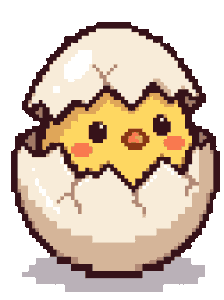
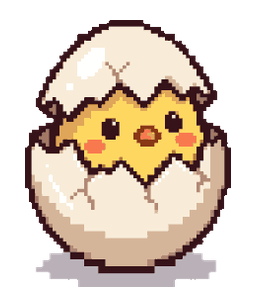
feat(NZ-236): マスコットのレベル表示とビジュアル更新を改善
- マスコットのレベル1〜10のドット絵をリデザイン（実績なし版も保存）
- RouteLoadingOverlay でレベル名表示に統一し、経験値ゲージを削除
- 待機中の画面情報を簡潔にして、ユーザーの待ち時間の体感負荷を軽減
- RouteSuggestionView と RouteConditionView のレベル表示を更新
- 経験値計算ロジックと関連テストを調整

diff --git a/frontend/src/views/RouteSuggestionView.vue b/frontend/src/views/RouteSuggestionView.vue
@@ -4,7 +4,7 @@ import { useRouter } from 'vue-router';
 import BaseButton from '@/components/base/BaseButton.vue';
 import BaseToast from '@/components/base/BaseToast.vue';
 import DefaultLayout from '@/components/layout/DefaultLayout.vue';
-import MascotExperienceBar from '@/components/feature/mascot/MascotExperienceBar.vue';
+import MascotSpeechBubble from '@/components/feature/mascot/MascotSpeechBubble.vue';
 import RouteInfoCard from '@/components/feature/route/RouteInfoCard.vue';
 import RouteLoadingOverlay from '@/components/feature/route/RouteLoadingOverlay.vue';
 import RouteMapPreview from '@/components/feature/route/RouteMapPreview.vue';
@@ -62,8 +62,16 @@ const showRandomSelectionMessage = () => {
   }
 };
 
-// ホーム画面から作成して遷移してきたときに知らせる
-onMounted(showRandomSelectionMessage);
+onMounted(() => {
+  // ホーム画面から作成して遷移してきたときに知らせる
+  showRandomSelectionMessage();
+
+  // 通常はホームで取得済みだが、この画面へ直接来た場合（リロード等）に備えて
+  // 取得できていなければ起こす。loadExperience は何度呼んでも同じ結果になる
+  if (!mascotStore.isExperienceLoaded) {
+    mascotStore.loadExperience();
+  }
+});
 
 /**
  * @description 提案を確定して案内画面へ進む。
@@ -110,18 +118,7 @@ const handleBackToHome = () => {
   <RouteLoadingOverlay
     v-if="isCreating"
     :mascot-level="mascotStore.mascotLevel"
-  >
-    <template
-      v-if="mascotStore.hasExperience"
-      #experience
-    >
-      <MascotExperienceBar
-        :level-progress="mascotStore.levelProgress"
-        :total-experience-points="mascotStore.totalExperiencePoints"
-        size="large"
-      />
-    </template>
-  </RouteLoadingOverlay>
+  />
 
   <DefaultLayout
     v-else-if="routeStore.currentRoute"
@@ -138,6 +135,22 @@ const handleBackToHome = () => {
       <h2 class="page-title">
         おすすめルート
       </h2>
+
+      <!--
+        提案の案内役。ホームで取得したレベルに応じた姿で出す。
+        この画面は地図と紹介文に高さを譲りたいので size は small にし、
+        経験値バーは出さずレベル名だけ添える（情報を絞る）。
+        ホームを経由せず直接来た場合に取得前の卵が出ないよう isExperienceLoaded で守る。
+      -->
+      <MascotSpeechBubble
+        v-if="mascotStore.isExperienceLoaded"
+        class="suggestion-mascot"
+        message="こんなルートはどう？ 気に入ったら決定してね！"
+        :level="mascotStore.mascotLevel"
+        placement="side"
+        size="small"
+        has-level-label
+      />
 
       <RouteMapPreview
         :geometry="routeStore.currentRoute.geometry"
@@ -191,6 +204,11 @@ const handleBackToHome = () => {
 .suggestion-content {
   display: flex;
   flex-direction: column;
+}
+
+/* 案内役と地図の間を空ける。高さが限られる画面なので最小限にとどめる */
+.suggestion-mascot {
+  margin-bottom: calc(6px + var(--fit) * 8);
 }
 
 /*

diff --git a/frontend/src/views/RouteConditionView.vue b/frontend/src/views/RouteConditionView.vue
@@ -56,13 +56,10 @@ onMounted(() => {
 
 /**
  * マスコットが話す文言。
- * 読み込み中・失敗・入力待ちの3つの状態を、この画面の案内役がそのまま話す。
+ * 読み込み中の案内は出さない（マスコット自体を取得完了まで出さないため）。
+ * 取得が終わった後の「失敗」「入力待ち」の2状態だけを、この画面の案内役が話す。
  */
 const mascotMessage = computed(() => {
-  if (isLoadingOptions.value) {
-    return '地図をひろげているよ。少し待っていてね';
-  }
-
   if (!hasConditionOptions.value) {
     return optionsErrorMessage.value ?? '条件をよみこめなかったみたい。もう一度ためしてね';
   }
@@ -72,7 +69,7 @@ const mascotMessage = computed(() => {
 
 /** 吹き出しの種類。条件を出せないときだけ注意として見せる */
 const mascotMessageVariant = computed(() =>
-  !isLoadingOptions.value && !hasConditionOptions.value ? 'alert' : 'normal'
+  hasConditionOptions.value ? 'normal' : 'alert'
 );
 
 /**
@@ -127,21 +124,11 @@ const handleSignOut = async () => {
 </script>
 
 <template>
+  <!-- ロード画面はレベル名だけ添える（経験値バーは渡さない） -->
   <RouteLoadingOverlay
     v-if="isCreating"
     :mascot-level="mascotStore.mascotLevel"
-  >
-    <template
-      v-if="mascotStore.hasExperience"
-      #experience
-    >
-      <MascotExperienceBar
-        :level-progress="mascotStore.levelProgress"
-        :total-experience-points="mascotStore.totalExperiencePoints"
-        size="large"
-      />
-    </template>
-  </RouteLoadingOverlay>
+  />
 
   <!--
     is-home は、この画面だけの見た目（見出しの扱い・下部の余白）を
@@ -179,14 +166,22 @@ const handleSignOut = async () => {
       />
     </div>
 
-    <!-- 読み込み中・失敗・入力待ちの案内は、この画面の案内役が吹き出しで話す -->
+    <!--
+      失敗・入力待ちの案内は、この画面の案内役が吹き出しで話す。
+      読み込み中（条件マスタの取得中・実績の取得中）は何も出さず、両方が終わってから
+      一度に出す。これにより「読み込み中」の中間表示そのものが消え、取得前のLv.1（卵）が
+      ちらつくこともない。実績は失敗しても isExperienceLoaded が真になり、Lv.1 で進む。
+      has-level-label で `Lv.5 まちの案内人` のようにレベルと名前を添える。
+    -->
     <MascotSpeechBubble
+      v-if="mascotStore.isExperienceLoaded && !isLoadingOptions"
       class="home-mascot"
       :message="mascotMessage"
       :variant="mascotMessageVariant"
       :level="mascotStore.mascotLevel"
       placement="side"
       size="medium"
+      has-level-label
     >
       <!-- 実績を取得できたときだけ経験値バーを出す（失敗時はLv.1でバー無し） -->
       <template

diff --git a/frontend/src/components/feature/route/RouteLoadingOverlay.vue b/frontend/src/components/feature/route/RouteLoadingOverlay.vue
@@ -7,8 +7,10 @@ import { DEFAULT_MASCOT_LEVEL } from '@/constants/mascotLevels';
  * 進行状況の判定は行わず、表示のみを担当する。
  * 待っている間の案内はマスコットが吹き出しで話す。
  *
- * レベルと経験値バーは親から受け取る（この部品は実績を取得しない）。
- * どちらも省略できるため、デザイン確認用の画面からは引数なしで呼べる。
+ * レベルは親から受け取る（この部品は実績を取得しない）。省略できるため、
+ * デザイン確認用の画面からは引数なしで呼べる。
+ * この画面ではレベル名（`Lv.5 まちの案内人`）だけを添え、経験値ゲージは出さない。
+ * 待機中に細かな進捗まで見せると情報が多く、待ち時間の体感が重くなるため。
  */
 defineProps({
   /** マスコットのレベル。実績を取得できていない場合は既定（Lv.1）のまま */
@@ -29,10 +31,12 @@ defineProps({
     <div class="loading-content">
       <h2>ミチシル</h2>
 
+      <!-- レベル名は添えるが、経験値ゲージは出さない（待機中は情報を絞る） -->
       <MascotSpeechBubble
         :level="mascotLevel"
         placement="stacked"
         size="large"
+        has-level-label
       >
         <h3 class="loading-text">
           ルートを作成中...
@@ -40,11 +44,6 @@ defineProps({
         <p class="loading-subtext">
           あなたにぴったりの<br>お散歩ルートを考えています
         </p>
-
-        <!-- 経験値バーは親が渡したときだけマスコットの下に出る -->
-        <template #experience>
-          <slot name="experience" />
-        </template>
       </MascotSpeechBubble>
 
       <div

diff --git a/frontend/src/stores/mascotStore.js b/frontend/src/stores/mascotStore.js
@@ -33,6 +33,14 @@ export const useMascotStore = defineStore('mascot', () => {
    */
   const hasExperience = ref(false);
 
+  /**
+   * 実績の取得を一度でも終えたか（成功・失敗を問わない）。
+   * ホーム画面は取得が終わるまでマスコットを出さず、取得前の Lv.1（卵）が
+   * 一瞬ちらつくのを防ぐ。失敗しても true になり、Lv.1 で表示へ進む
+   * （いつまでも何も出ない状態にしないため）。
+   */
+  const isExperienceLoaded = ref(false);
+
   /** 実績から求めた累計経験値 */
   const totalExperiencePoints = computed(() =>
     toExperiencePoints({
@@ -76,6 +84,10 @@ export const useMascotStore = defineStore('mascot', () => {
       cumulativeMinutes.value = 0;
       reviewCount.value = 0;
       hasExperience.value = false;
+    } finally {
+      // 成否にかかわらず「取得を終えた」ことを示す。
+      // ホームはこれを待ってからマスコットを出す（取得前のちらつきを防ぐ）
+      isExperienceLoaded.value = true;
     }
   };
 
@@ -89,6 +101,7 @@ export const useMascotStore = defineStore('mascot', () => {
     cumulativeMinutes.value = 0;
     reviewCount.value = 0;
     hasExperience.value = false;
+    isExperienceLoaded.value = false;
   };
 
   return {
@@ -96,6 +109,7 @@ export const useMascotStore = defineStore('mascot', () => {
     cumulativeMinutes,
     reviewCount,
     hasExperience,
+    isExperienceLoaded,
     totalExperiencePoints,
     levelProgress,
     mascotLevel,

diff --git a/frontend/src/constants/mascotExperience.js b/frontend/src/constants/mascotExperience.js
@@ -24,11 +24,13 @@ export const METERS_PER_KM = 1000;
  * 各レベルから次のレベルへ上がるのに要する経験値。
  * 添字0が Lv.1→2、添字8が Lv.9→10（Lv.10 が上限のため9段で終わる）。
  *
- * Lv.1→2 を1000として、以降は1.3倍の等比で増やしている（端数は切り捨て）。
+ * Lv.1→2 を1000として、前段の値を1.3倍し、一の位を四捨五入（10の位へ丸め）している。
+ * 丸めの起点は前段の丸めた値（例: 2200 × 1.3 = 2860）。切りのよい数字にして
+ * 利用者が「あと少し」を把握しやすくする。
  * 経験値表の唯一の定義元であり、累計のしきい値はここから足し上げて導出する。
  */
 export const MASCOT_LEVEL_REQUIREMENTS = [
-  1000, 1300, 1690, 2197, 2856, 3713, 4827, 6275, 8157
+  1000, 1300, 1690, 2200, 2860, 3720, 4840, 6290, 8180
 ];
 
 /**
@@ -36,7 +38,7 @@ export const MASCOT_LEVEL_REQUIREMENTS = [
  *
  * 必要経験値の表を足し上げて作る。累計値を直書きすると、必要経験値を
  * 変えたときに片方だけ直して食い違う（しかもエラーにならず、レベルだけが狂う）。
- * 導出結果は [0, 1000, 2300, 3990, 6187, 9043, 12756, 17583, 23858, 32015] になる。
+ * 導出結果は [0, 1000, 2300, 3990, 6190, 9050, 12770, 17610, 23900, 32080] になる。
  */
 export const MASCOT_LEVEL_THRESHOLDS = MASCOT_LEVEL_REQUIREMENTS.reduce(
   (thresholds, requirement) => [

diff --git a/frontend/src/constants/__tests__/mascotExperience.test.js b/frontend/src/constants/__tests__/mascotExperience.test.js
@@ -12,13 +12,13 @@ import {
 describe('mascotExperience', () => {
   test('必要経験値はLv.1→2からLv.9→10までの9段である', () => {
     expect(MASCOT_LEVEL_REQUIREMENTS).toEqual([
-      1000, 1300, 1690, 2197, 2856, 3713, 4827, 6275, 8157
+      1000, 1300, 1690, 2200, 2860, 3720, 4840, 6290, 8180
     ]);
   });
 
   test('累計しきい値は必要経験値の足し上げと一致する', () => {
     expect(MASCOT_LEVEL_THRESHOLDS).toEqual([
-      0, 1000, 2300, 3990, 6187, 9043, 12756, 17583, 23858, 32015
+      0, 1000, 2300, 3990, 6190, 9050, 12770, 17610, 23900, 32080
     ]);
   });
 

diff --git a/frontend/src/utils/__tests__/mascotLevelProgress.test.js b/frontend/src/utils/__tests__/mascotLevelProgress.test.js
@@ -74,7 +74,7 @@ describe('toMascotLevelProgress', () => {
   });
 
   test('上限レベルでは次の必要経験値を持たず割合は1になる', () => {
-    const progress = toMascotLevelProgress(32015);
+    const progress = toMascotLevelProgress(32080);
 
     expect(progress).toEqual({
       mascotLevel: 10,
